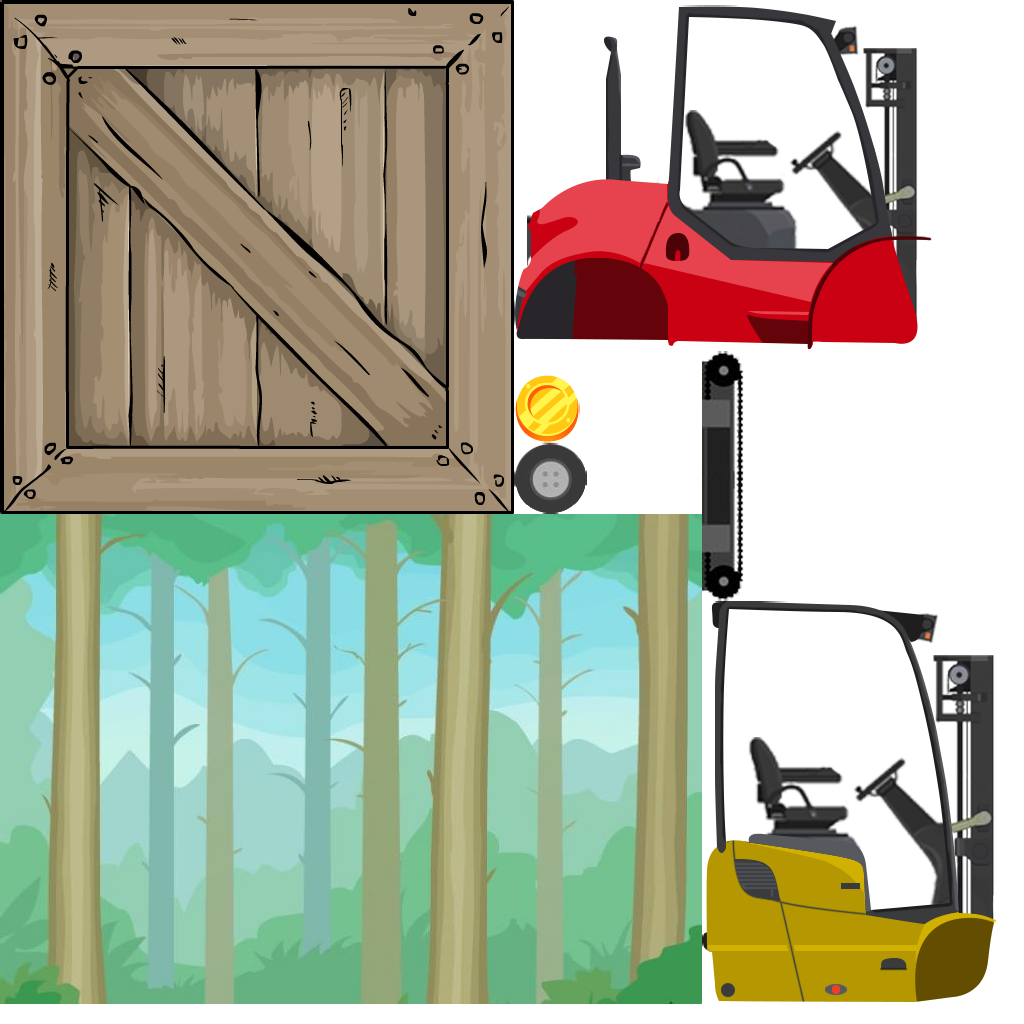
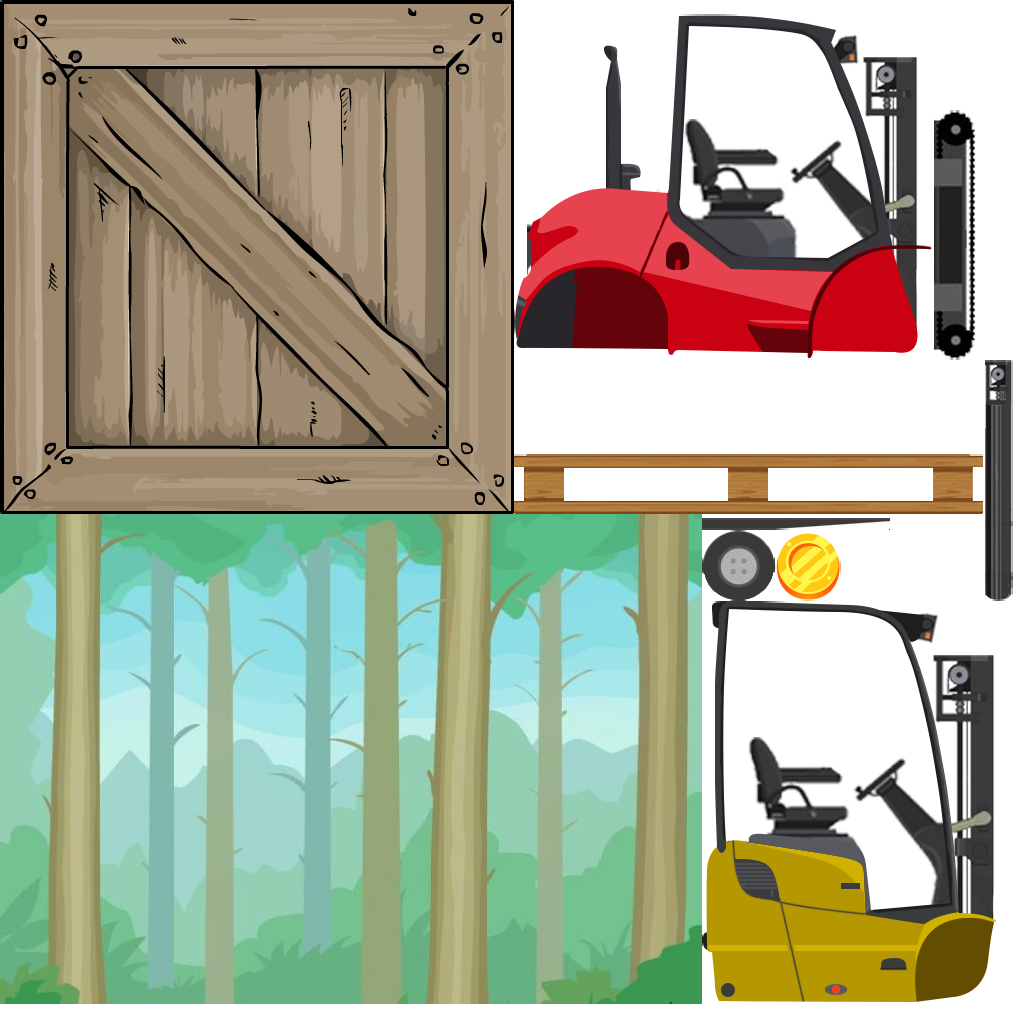
Addin new textures

Changed region(s): [[0.5, 0.0, 1.0, 0.5938], [0.5938, 0.0312, 0.625, 0.0625]]

diff --git a/core/src/com/mygdx/forkliftaone/entity/BoxBase.java b/core/src/com/mygdx/forkliftaone/entity/BoxBase.java
@@ -23,10 +23,11 @@ public abstract class BoxBase extends Actor {
     private Body body;
     private float density;
     private float boxWidth, boxHeight;// Should by multiplied by 2
-    private TextureRegion goodTexture;
+    private TextureRegion goodTexture, palleteTexture;
     private Vector2 position;
     private int price, donatePrice;
     private boolean dead;
+    private float palleteHieght = 0.1f;
 
     public BoxBase(World world, Camera camera, TextureAtlas atlas, float boxDensity,
                    float boxWidth, float boxHeight, String goodTexture, Vector2 coords){
@@ -43,6 +44,7 @@ public abstract class BoxBase extends Actor {
 //        TextureAtlas gamePlayAtlas = assetManager.get(AssetDescriptors.TEST_ATLAS);
 
         this.goodTexture = atlas.findRegion(goodTexture);
+        palleteTexture = atlas.findRegion(RegionNames.PALLETE);
     }
 
     public Body createRubbishBox(){
@@ -66,7 +68,7 @@ public abstract class BoxBase extends Actor {
         box.createFixture(fixDef).setUserData(this); // required for collision
 
 //        ps.setAsBox(0.37f, 0.65f);
-        ps.setAsBox(boxWidth, 0.10f, new Vector2(0, -(boxHeight + 0.10f)), 0);
+        ps.setAsBox(boxWidth, palleteHieght, new Vector2(0, -(boxHeight + palleteHieght)), 0);
         fixDef.shape = ps;
         fixDef.density = density;
         fixDef.friction = 1f;
@@ -94,6 +96,14 @@ public abstract class BoxBase extends Actor {
                         body.getAngle() * 57.2957f); // Rotation (radiants to degrees)
             }
         }
+
+        // Drawing pallete
+        batch.draw(palleteTexture, // Texture
+                body.getPosition().x - boxWidth, body.getPosition().y  - (boxHeight + (palleteHieght * 2f)), // Texture position
+                boxWidth, (boxHeight + (palleteHieght * 2f)), // Rotation point (width / 2, height /2 = center)
+                boxWidth * 2f, palleteHieght * 2f, // Width and height of the texture
+                getScaleX(), getScaleY(), //scaling
+                body.getAngle() * 57.2957f); // Rotation (radiants to degrees)
     }
 
     @Override

diff --git a/core/src/com/mygdx/forkliftaone/entity/ForkliftActorBase.java b/core/src/com/mygdx/forkliftaone/entity/ForkliftActorBase.java
@@ -248,13 +248,20 @@ public class ForkliftActorBase extends Actor {
 
         // drawing tubes texture (Text)
         for (Body forkliftTube : forkliftTubes){
-            batch.draw(forkTexture, // Texture
+            batch.draw(tubeTexture, // Texture
                     forkliftTube.getPosition().x - model.getTubeSize()[0], forkliftTube.getPosition().y - model.getTubeSize()[1], // Texture position
                     model.getTubeSize()[0], model.getTubeSize()[1], // Rotation point (width / 2, height /2 = center)
                     model.getTubeSize()[0] * 2, model.getTubeSize()[1] * 2, // Width and height of the texture
                     getScaleX(), getScaleY(), //scaling
                     forkliftTube.getAngle()*57.2957f);
         }
+
+        batch.draw(forkTexture, // Texture
+                fork.getPosition().x - GameConfig.FORK_WIDTH, fork.getPosition().y - GameConfig.FORK_HEIGHT, // Texture position
+                GameConfig.FORK_WIDTH, GameConfig.FORK_HEIGHT, // Rotation point (width / 2, height /2 = center)
+                GameConfig.FORK_WIDTH * 2, GameConfig.FORK_HEIGHT * 2, // Width and height of the texture
+                getScaleX(), getScaleY(), //scaling
+                fork.getAngle()*57.2957f);
 
         if (model.isThreeweeler()){
             batch.draw(wheelTexture, // Texture
@@ -387,7 +394,7 @@ public class ForkliftActorBase extends Actor {
         bodyTexture = model.getForkliftRegion();
         tubeTexture = model.getTubeRegion();
         wheelTexture = model.getWheelRegion();
-//        forkTexture = model.getForkRegion();
+        forkTexture = model.getForkRegion();
         forkTexture = model.getForkRegion();
     }
 

diff --git a/core/src/com/mygdx/forkliftaone/utils/RegionNames.java b/core/src/com/mygdx/forkliftaone/utils/RegionNames.java
@@ -1,7 +1,8 @@
 package com.mygdx.forkliftaone.utils;
 
 public class RegionNames {
-    private RegionNames() {}
+    private RegionNames() {
+    }
 
     public static final String MODEL_1 = "ModelOne";
     public static final String MODEL_4 = "ModelFour";
@@ -13,7 +14,10 @@ public class RegionNames {
 
 
     public static final String FORKLIFT_WHEEL = "wheeltexture";
-    public static final String FORK_TEXTURE = "tubeytexture";
+    //    public static final String FORK_TEXTURE = "tubeytexture";
+    public static final String TUBE_TEXTURE = "tube";
+    public static final String FORK_TEXTURE = "fork";
+    public static final String PALLETE = "pallete";
     public static final String TEST_BACKGROUND = "57bf2fe698ab4156c2d31ce1";
     public static final String BOX_TEXTURE = "box";
     public static final String COIN_TEXTURE = "coin";

diff --git a/core/src/com/mygdx/forkliftaone/ForkliftModel.java b/core/src/com/mygdx/forkliftaone/ForkliftModel.java
@@ -45,6 +45,8 @@ public class ForkliftModel {
     public ForkliftModel(ForkliftData fd, MapBase map, TextureAtlas atlas) {
 
         spawnPosition = map.getSpawnCoordinates();
+        tubeRegion = atlas.findRegion(RegionNames.TUBE_TEXTURE);
+        forkRegion = atlas.findRegion(RegionNames.FORK_TEXTURE);
 
         switch (fd.getName()) {
 //            case SMALL:
